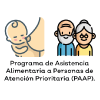
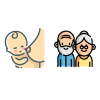
Cards: bg-color, iconos

diff --git a/src/components/SupportIntegrationTranspa.js b/src/components/SupportIntegrationTranspa.js
@@ -64,14 +64,14 @@ class SupportIntegrationTranspa extends Component {
                                  >
                                     <Link
                                        to={post.link}
-                                       className='s_integration_item'
+                                       className='s_integration_item bg-brand'
                                     >
                                        <img
                                           src={require('../img/new-home/' +
                                              post.iImage)}
                                           alt=''
                                        />
-                                       <h5>{post.text}</h5>
+                                       <h5 className="text-white">{post.text}</h5>
                                     </Link>
                                  </div>
                               );
@@ -84,7 +84,7 @@ class SupportIntegrationTranspa extends Component {
                               >
                                  <a
                                     href={post.link}
-                                    className='s_integration_item'
+                                    className='s_integration_item bg-brand'
                                     target="_blank"
                                     rel="noopener noreferrer"
                                  >
@@ -93,7 +93,7 @@ class SupportIntegrationTranspa extends Component {
                                           post.iImage)}
                                        alt=''
                                     />
-                                    <h5>{post.text}</h5>
+                                    <h5 className="text-white">{post.text}</h5>
                                  </a>
                               </div>
                            );

diff --git a/src/components/SupportIntegration.js b/src/components/SupportIntegration.js
@@ -9,8 +9,8 @@ class SupportIntegration extends Component {
             integrationItem:[
                 {
                     "id": 100,
-                    "iImage": "caic2.png",
-                    "text": "CAIC",
+                    "iImage": "caic.png",
+                    "text": "Centro de Asistencia Infantil Comunitario (CAIC)",
                     "link": "/Caic"
                 },
                 {
@@ -46,7 +46,7 @@ class SupportIntegration extends Component {
                 {
                     "id": 106,
                     "iImage": "ubr.png",
-                    "text": "UBR",
+                    "text": "Unidad Básica de Rehabilitación",
                     "link": "/Ubr"
                 }
             ]
@@ -64,9 +64,9 @@ class SupportIntegration extends Component {
                                 {this.state.integrationItem.map(post =>(
                                     <div className="col-lg-6 col-md-6 col-sm-6" key={post.id}>
                                         {/*<a href="/Service" className="s_integration_item"> */}
-                                        <Link to={post.link} className="s_integration_item">
+                                        <Link to={post.link} className="s_integration_item bg-brand">
                                             <img src={require ("../img/new-home/" + post.iImage)} alt=""/>
-                                            <h5>{post.text}</h5>
+                                            <h5 className="text-white">{post.text}</h5>
                                         </Link>
                                     </div>
                                 ))}

diff --git a/src/components/SupportIntProgramas.js b/src/components/SupportIntProgramas.js
@@ -21,7 +21,7 @@ class SupportIntProgramas extends Component {
                 {
                     "id": 112,
                     "iImage": "paap.png",
-                    "text": "PAAP",
+                    "text": "Asistencia Alimentaria a Personas de Atención Prioritaria",
                     "link": "/Paap"
                 },
                 {
@@ -45,9 +45,9 @@ class SupportIntProgramas extends Component {
                                 {this.state.integrationItem.map(post =>(
                                     <div className="col-lg-6 col-md-6 col-sm-6" key={post.id}>
                                         {/*<a href="/Service" className="s_integration_item"> */}
-                                        <Link to={post.link} className="s_integration_item">
+                                        <Link to={post.link} className="s_integration_item bg-brand text-white">
                                             <img src={require ("../img/new-home/" + post.iImage)} alt=""/>
-                                            <h5>{post.text}</h5>
+                                            <h5 className="text-white">{post.text}</h5>
                                         </Link>
                                     </div>
                                 ))}

diff --git a/src/components/Service/Sservice/Sservice.js b/src/components/Service/Sservice/Sservice.js
@@ -9,7 +9,7 @@ class Sservice extends Component{
                     <h2 className="f_size_30 f_600 t_color3 l_height40 text-center mb_90 wow fadeInUp" data-wow-delay="0.2s"></h2>
                     <div className="row mb_30 text-center">
                         <div className="col-lg-4 col-sm-6">
-                        <Reveal effect="fadeInUp" duration={1100}><Stserviceitems iShap="caic2.png"  Sicon="ti-panel" text="CAIC" description="" btn="Read More" bicon="arrow_right"/></Reveal>
+                        <Reveal effect="fadeInUp" duration={1100}><Stserviceitems iShap="caic.png"  Sicon="ti-panel" text="CAIC" description="" btn="Read More" bicon="arrow_right"/></Reveal>
                         </div>
                         <div className="col-lg-4 col-sm-6">
                         <Reveal effect="fadeInUp" duration={1400}><Stserviceitems iShap="dentista.png"  Sicon="ti-layout-grid2" text="Dentista" description="Why I say old chap that is spiffing bodge, blag pardon me buggered mufty Oxford butty bubble and squeak wind up, brown bread the full monty bloke ruddy.!" btn="Read More" bicon="arrow_right"/></Reveal>

diff --git a/src/App.css b/src/App.css
@@ -33,7 +33,9 @@
 }
 
 :root {
-   --brand-color: rgba(233, 173, 202);
+   --brand-color: rgb(245, 184, 213);
+
+   /*  273, 173, 202 */
 }
 
 .bg-brand {
